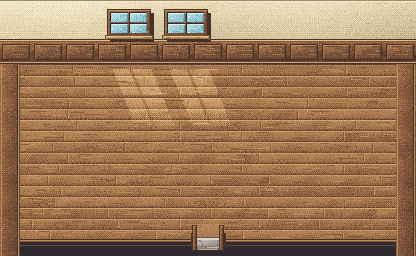
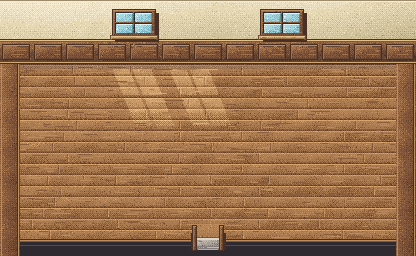
Space the office wall evenly, stand the desk's things on it, and name the tailor Bram
What stands on a piece whose near edge is drawn in front of people is now drawn in front of that
edge too, so the habitat, lamp, notebook and mug stand on the office desk instead of sinking into
it. The converter moves the office's two windows in the background picture to either side of the
pennant, which now hangs over the desk, and hangs the framed note over the trophy sideboard (Jake,
12 November). A room a few pixels taller than the window keeps its back wall in sight until the
Handler walks the last row to the door. The Studio's tailor is Bram, as Jake chose.

Changed region(s): [[0.25, 0.0, 0.5312, 0.1875], [0.625, 0.0312, 0.75, 0.1875]]

diff --git a/scripts/town_art.py b/scripts/town_art.py
@@ -41,6 +41,11 @@ INTERIORS = {
         ],
         "door": ("campus", "0"),
         "spawn": "habitat",
+        # The back wall spaced out (Jake, 12 November): the windows either side of the pennant,
+        # which hangs over the desk, and the framed note over the trophy sideboard. The windows
+        # are moved in the background picture: first and last column, and how far.
+        "windows": [(105, 152, 5), (162, 209, 96)],
+        "wall": {"pennant": (182, 12), "framed-note": (64, 12)},
         "people": [],
     },
     "arena": {
@@ -165,7 +170,7 @@ def interior(pack, guide, key, spec):
         x, y = hotspot if isinstance(hotspot, tuple) else place["hotspots"][hotspot]
         lines.append(f"person {pid} {x} {y} {facing}")
     (TOWN / f"{key}.place").write_text("\n".join(lines) + "\n")
-    write_props(pack, guide, key, props, interior=True)
+    write_props(pack, guide, key, props, interior=True, spec=spec)
 
 
 def campus(pack, guide):
@@ -211,14 +216,58 @@ def campus(pack, guide):
     write_props(pack, guide, "campus", props, interior=False)
 
 
-def write_props(pack, guide, key, props, interior):
+# The background's plaster rows; the wainscot below them has panels 32 pixels wide.
+PLASTER_ROWS = 39
+
+
+def respace(bg, moves):
+    """Moves windows baked into an office wall, filling where they were with the plain wall a
+    whole number of panels away. `moves`: each window's first and last column and its shift."""
+    plaster = {bg.getpixel((x, y)) for y in range(PLASTER_ROWS) for x in range(222, 318)}
+    out = bg.copy()
+
+    def clean(x):
+        return x - 96 if x < 158 else x + 128
+
+    def is_window(x, y):
+        if y < PLASTER_ROWS:
+            return bg.getpixel((x, y)) not in plaster
+        return bg.getpixel((x, y)) != bg.getpixel((clean(x), y))
+
+    pixels = []
+    for x0, x1, dx in moves:
+        for y in range(48):
+            for x in range(x0 - 2, x1 + 3):
+                if is_window(x, y):
+                    pixels.append((x + dx, y, bg.getpixel((x, y))))
+        for y in range(48):
+            for x in range(x0 - 2, x1 + 3):
+                out.putpixel((x, y), bg.getpixel((clean(x), y)))
+    for x, y, p in pixels:
+        out.putpixel((x, y), p)
+    return out
+
+
+edited = {}
+
+
+def write_props(pack, guide, key, props, interior, spec=None):
     shade = guide["shadows"]
+    spec = spec or {}
+    background = use(pack, f"place-{key}-bg.png")
+    if spec.get("windows"):
+        edited[background] = respace(
+            Image.open(pack / f"place-{key}-bg.png").convert("RGBA"), spec["windows"]
+        )
     lines = [
         "# Built by scripts/town_art.py from the art pack's layout guide.",
-        f"background {use(pack, f'place-{key}-bg.png')}",
+        f"background {background}",
         f"foreground {use(pack, f'place-{key}-fg.png')}",
     ]
     parents = {}
+    # Pieces whose near edge stands in front of people: what stands on them has to stand in
+    # front too, or the near edge would cover it.
+    fronted = set()
     for p, d in props:
         x, y = p["at_px"]
         layer = d.get("layer", "depth-sort")
@@ -229,9 +278,11 @@ def write_props(pack, guide, key, props, interior):
             frame = p.get("preview_frame", 0)
             name = "prop-habitat-train-still.png"
             strip.crop((fw * frame, 0, fw * (frame + 1), fh)).save(ASSETS / name)
-            sort = parents.get(p.get("attached_to"), y)
+            parent = p.get("attached_to")
+            sort = parents.get(parent, y)
             ax, ay = d["anchor_px"]
-            lines.append(f"sort {name} {x - ax} {y - ay} {sort} - 0 - 0")
+            over = name if parent in fronted else "-"
+            lines.append(f"sort {name} {x - ax} {y - ay} {sort} - 0 {over} 0")
             continue
         if p["id"] == "trophy-empty-stand":
             parent = p["attached_to"]
@@ -243,11 +294,14 @@ def write_props(pack, guide, key, props, interior):
             continue
         file = use(pack, d.get("base_file", d["file"]))
         if layer in ("floor", "wall"):
+            x, y = spec.get("wall", {}).get(p["id"], (x, y))
             lines.append(f"{layer} {file} {x} {y}")
             continue
         if "attached_to" in p or layer.startswith("habitat") or layer == "surface":
-            sort = parents.get(p.get("attached_to"), y)
-            lines.append(f"sort {file} {x} {y} {sort} - 0 - 0")
+            parent = p.get("attached_to")
+            sort = parents.get(parent, y)
+            over = file if parent in fronted else "-"
+            lines.append(f"sort {file} {x} {y} {sort} - 0 {over} 0")
             continue
         sort = p.get("sort_y", y + d.get("sort_baseline_y", 0))
         if "instance" in p:
@@ -260,6 +314,8 @@ def write_props(pack, guide, key, props, interior):
             over = use(pack, d["foreground_file"])
         elif "foreground_rows" in d:
             rows = d["foreground_rows"][1]
+        if (over != "-" or rows) and "instance" in p:
+            fronted.add(p["instance"])
         lines.append(f"sort {file} {x} {y} {sort} {shadow_name} {opacity} {over} {rows}")
     (TOWN / f"{key}.props").write_text("\n".join(lines) + "\n")
 
@@ -290,7 +346,10 @@ def main():
     ]:
         use(pack, name)
     for src, flat in sorted(used):
-        shutil.copyfile(src, ASSETS / flat)
+        if flat in edited:
+            edited[flat].save(ASSETS / flat)
+        else:
+            shutil.copyfile(src, ASSETS / flat)
     names = sorted({flat for _, flat in used} | {"prop-habitat-train-still.png"})
     arms = "\n".join(
         f'        "{n}" => include_bytes!("../../assets/town/{n}"),' for n in names

diff --git a/crates/formiga-battle/src/town/picture.rs b/crates/formiga-battle/src/town/picture.rs
@@ -244,6 +244,12 @@ pub fn camera(place: &Place, feet: (f32, f32)) -> (i32, i32) {
     let axis = |size: i32, view: i32, at: f32| {
         if size <= view {
             (size - view) / 2
+        } else if size - view <= TILE {
+            // A room a few pixels taller than the window keeps its back wall in sight, and slides
+            // down to its door only as the Handler walks the last rows towards it.
+            let rows = size / TILE;
+            let t = (at - (rows - 3) as f32).clamp(0.0, 1.0);
+            ((size - view) as f32 * t).round() as i32
         } else {
             let centre = (at * TILE as f32) as i32 + TILE / 2;
             (centre - view / 2).clamp(0, size - view)
@@ -270,6 +276,14 @@ mod tests {
                 assert!(cy + VIEW.1 <= campus.height * TILE);
             }
         }
+    }
+
+    #[test]
+    fn a_room_shows_its_back_wall_until_the_handler_nears_the_door() {
+        let office = PlaceId::Office.place();
+        assert_eq!(camera(&office, (6.0, 3.0)).1, 0);
+        let (_, at_door) = camera(&office, (6.0, 6.0));
+        assert_eq!(at_door, office.height * TILE - VIEW.1);
     }
 
     #[test]

diff --git a/crates/formiga-battle/src/app/speech.rs b/crates/formiga-battle/src/app/speech.rs
@@ -124,7 +124,7 @@ impl BattleApp {
                 Speech::new("Wren", Some("wren"), self.wren_lines(), None)
             }
             (PlaceId::Studio, "tailor" | "counter") => Speech::new(
-                "The tailor",
+                "Bram",
                 Some("tailor"),
                 vec![
                     "Come in! Try a look in the mirror. Nothing here changes how your three play."

diff --git a/crates/formiga-battle/src/town/mod.rs b/crates/formiga-battle/src/town/mod.rs
@@ -390,7 +390,7 @@ pub fn person_name(id: &str) -> String {
         "marlow" => "Marlow".to_owned(),
         "iris" => "Iris".to_owned(),
         "odile" => "Odile".to_owned(),
-        "tailor" => "the tailor".to_owned(),
+        "tailor" => "Bram".to_owned(),
         "gardener" => "the gardener".to_owned(),
         "angler" => "the angler".to_owned(),
         "wren" => "Wren".to_owned(),

diff --git a/docs/TOWN.md b/docs/TOWN.md
@@ -44,7 +44,7 @@ reached and used.
 | Arena | 13 × 8 | the visitors' table, the friends' board, the lessons shelf | Marlow |
 | Clubhouse | 13 × 8 | the trio register, the chalkboard, the history shelves | Iris |
 | Guild Hall | 13 × 8 | the season board, the Hall of Champions | Odile, Wren |
-| Handler Studio | 13 × 8 | the mirror, the counter | the tailor |
+| Handler Studio | 13 × 8 | the mirror, the counter | Bram, the tailor |
 
 ## The art
 
@@ -64,6 +64,14 @@ A place is drawn as the guide says: its background with shadows, rugs and wall p
 then every piece and everyone in the place back to front by their feet, then its foreground and
 the tops of trees, lamps, desks and bookcases over them. Light moves on the campus water. The cups
 won stand on the office and Arena sideboards in place of their empty stands.
+
+Two things are adjusted from the pack as it came. What stands on a desk or table whose near edge is
+drawn in front of people is drawn in front of that edge too, so the habitat, the lamp and the mug
+stand on the office desk rather than sinking into it. And the office's back wall is spaced out
+(Jake, 12 November): the script moves the two windows in the background picture to either side of
+the pennant, which hangs over the desk, and hangs the framed note over the trophy sideboard. A room
+a few pixels taller than the window keeps its back wall in sight until the Handler walks the last
+row to the door.
 
 When the pack changes, run the script again with its folder and check the pictures with
 `--render-window --review town` (the office), `--review campus` and `--review arrival`.
@@ -99,7 +107,7 @@ The thing in front, or the one Tab points to, shows its prompt over it.
 | Clubhouse | chalkboard | Playbooks |
 | Clubhouse | history shelves | History |
 | Guild Hall | board, Hall of Champions, Odile | Season |
-| Studio | mirror, counter, the tailor | the Handler Studio |
+| Studio | mirror, counter, Bram | the Handler Studio |
 
 ## Who says what
 
@@ -114,7 +122,7 @@ with nothing recorded yet it is a plain greeting (`app/speech.rs`). Nothing said
 | Iris | the trios in the register, by name | the Handler's page |
 | Odile | the Open Circuit points from friend matches, and the next event fixture | Season |
 | Wren | who she is, or how the meetings with her stand and how the last one went, from the career | nothing |
-| the tailor (also the Studio counter) | a welcome to try a look | the Handler Studio |
+| Bram, the tailor (also the Studio counter) | a welcome to try a look | the Handler Studio |
 | the gardener, the angler | one line of their own, nothing about anyone | nothing |
 | the notice board | the next cup and this season's fixture | nothing |
 | the beacon lamp, the greenhouse | what they are | nothing |
@@ -142,5 +150,5 @@ A character sheet is 4 rows of 48 × 48 cells, facing down, left, right and up, 
 The Handler is stacked from Jake's layered sheets in his draw order: hair behind, the accessory
 behind, body, outfit, the accessory in front, hair in front, then glasses or a cap. Wren, the
 gardener and the angler have full sheets (their last two frames are pointing, the watering can and
-the rod); Marlow, Iris, Odile and the tailor have staff sheets of 4 frames: two standing, two
+the rod); Marlow, Iris, Odile and Bram have staff sheets of 4 frames: two standing, two
 talking. Spoken to, a townsperson turns to the Handler and talks for a moment.

diff --git a/CHANGELOG.md b/CHANGELOG.md
@@ -18,12 +18,16 @@
   career, each choice drawn from Jake's layered sheets. It changes nothing in a match.
 - The town and the arrival in Jake's own art: the office, the courtyard and the four buildings
   furnished as his layout guide lays them out, the Handler stacked from layered sheets, Marlow,
-  Iris, Odile, Wren, the tailor, the gardener and the angler each with their own sheet and talking
+  Iris, Odile, Wren, Bram the tailor, the gardener and the angler each with their own sheet and talking
   back when spoken to, light on the water, and the cups won standing on the sideboards.
   `scripts/town_art.py` brings a new revision of the art pack in.
+- The office's back wall is spaced out evenly: the windows either side of the pennant over the
+  desk, the framed note over the trophy sideboard. The habitat, lamp and mug stand on the desk
+  instead of sinking into it, and a room keeps its back wall in view until the Handler nears the
+  door.
 - The townspeople talk, on a card with their portrait: Marlow on the cups, Iris on the trios,
   Odile on Open Circuit points and the next fixture, Wren on how the meetings with her stand, the
-  tailor, the gardener and the angler, and the notice board. Only what the record shows is said,
+  tailor Bram, the gardener and the angler, and the notice board. Only what the record shows is said,
   and each keeps to the page they had before, opened after their last line.
 
 ## [0.68.1] - 2026-10-26
